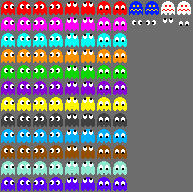
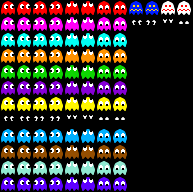
almost

diff --git a/Pac-Man/Pac-Man/Board.cpp b/Pac-Man/Pac-Man/Board.cpp
@@ -19,12 +19,30 @@ Board::Board(){
 	StartGame = new TexRect("StartGame.png", -0.65f, 0.4f, 1.2f, 0.4f);
 	Exit = new TexRect("Exit1.png", -0.6f, -0.5f, 1.1f, 0.35f);
 
+
 	Field = new Navigation();
 	Field->Initialize();
 	PacMan = new Player(Field->StartNode);
 	PacMan->Image->setPos(' ');
 	PacMan->Image->animate();
 	Initialize();
+
+	Uno = new Enemy(Field->List[66]);
+		Uno->Image->animate();
+		Uno->setRow(1);
+		Uno->Image->setPos('L');
+		Uno->Image->pause();
+
+	Dos = new Enemy(Field->List[67]);
+		Dos->Image->animate();
+		Dos->setRow(2);
+		Dos->Image->setPos('R');
+		Dos->Image->pause();
+	Tres = new Enemy(Field->List[68]);
+		Tres->Image->animate();
+		Tres->setRow(3);
+		Tres->Image->setPos('L');
+		Tres->Image->pause();
 
 	SelectionScreen = true;
 	isMoving = false;
@@ -104,11 +122,13 @@ void Board::Initialize(){
 	myfile2.close();
 
 }
-
 void Board::Handle(float x, float y){
 	if (Loss) {
-		if (PlayAgain->contains(x, y))
+		if (PlayAgain->contains(x, y)) {
 			ResetGame();
+			SelectionScreen = true;
+			Loss = false;
+		}
 	}
 	else if (SelectionScreen) {
 		if (StartGame->contains(x, y))
@@ -132,7 +152,9 @@ void Board::keyPressHandle(unsigned char key) {
 		Stash.clear();
 		delete Field;
 
-		//delete *Uno, *Dos, *Tres;
+		delete Uno;
+		delete Dos;
+		delete Tres;
 		delete PacMan;
 		exit(0);
 	}
@@ -169,6 +191,10 @@ void Board::GScreen(){
 	PacMan->draw();
 	ScoreSign->draw();
 	LiveSign->draw();
+
+	Uno->draw();
+	Dos->draw();
+	Tres->draw();
 	
 	for (vector<Object*>::iterator it = Stash.begin(); it != Stash.end(); ++it)
 		if((*it)->isVisible)
@@ -359,7 +385,7 @@ void Board::Points(){
 			}
 		}
 	}
-	if (Score >= 2500) {
+	if (Score >= 250) {
 		cout << "Won" << endl;
 		Won = true;
 	}

diff --git a/Pac-Man/Pac-Man/Enemy.cpp b/Pac-Man/Pac-Man/Enemy.cpp
@@ -2,14 +2,54 @@
 #include "Enemy.h"
 
 Enemy::Enemy(Node *a) {
-	X = a->CX; Y = a->CY;
-	curr = a;
-	Dir = 'U';
+	prev = a;
+	next = nullptr;
+	Dir = 'L';
 	isVisible = true;
+	X = a->CX; Y = a->CY;
 
-	Image = new AnimatedRect("Enemies.png", 1, 1, X, Y, 0.1f, 0.1f);
+	Image = new AnimatedRect("Enemies.bmp", 12, 12, X, Y, 0.1f, 0.1f);
+	Image->decX(Image->getw() / 2);
+	Image->incY(Image->geth() / 2);
+
+
+	//DIR = &Idle;
 }
 
+
 Enemy::~Enemy() {
-	delete Image;
+	//delete Image;
+	delete next;
+	delete prev;
+}
+
+bool Enemy::getChoice(char D) {
+	if (next->NodeDirection(prev) == D) {
+		return true;
+	}
+	return false;
+}
+
+// Finds if the next Choice is a valid one
+bool Enemy::NextChoice(char D) {
+	for (vector<Node*>::iterator it = next->Adj.begin(); it != next->Adj.end(); ++it) {
+		if (next->NodeDirection(*it) == D) {
+			return true;
+		}
+	}
+	return false;
+}
+
+// Sets the Initial Choice when the game starts
+bool Enemy::setChoice(char D) {
+	for (vector<Node*>::iterator it = prev->Adj.begin(); it != prev->Adj.end(); ++it) {
+		if (prev->NodeDirection(*it) == D) {
+			return true;
+		}
+	}
+	return false;
+}
+
+void Enemy::setRow(int a){
+	Image->setRow(a);
 }

diff --git a/Pac-Man/Pac-Man/App.cpp b/Pac-Man/Pac-Man/App.cpp
@@ -1,5 +1,6 @@
 #include "App.h"
 #include "stdafx.h"
+#include "Enemy.h"
 
 static App* MF;
 
@@ -17,7 +18,7 @@ void app_timer(int value) {
 
 		}
 		if (MF->MainFrame->Winning()) {
-			MF->MainFrame->ResetGame();
+			MF->MainFrame->Loss = true;
 		}
 		MF->MainFrame->Points();  //PacMan collision with dots gets points
 	}

diff --git a/Pac-Man/Pac-Man/Board.h b/Pac-Man/Pac-Man/Board.h
@@ -11,6 +11,7 @@
 #include "Navigation.h"
 #include "App.h"
 #include "SDots.h"
+#include "Enemy.h"
 
 #include <vector>
 #include <ctime>
@@ -34,7 +35,7 @@ class Board {
 	vector<Object*> Stash;
 	Navigation * Field;
 
-	//Enemy *Uno, *Dos, *Tres;
+	Enemy *Uno, *Dos, *Tres;
 	Player * PacMan;
 
 	int Score, Lives;

diff --git a/Pac-Man/Pac-Man/Enemy.h b/Pac-Man/Pac-Man/Enemy.h
@@ -6,13 +6,19 @@
 #include "AnimatedRect.h"
 
 class Enemy: public Navigation, public Object {
-	Node * curr;
+	Node * next;
 	Node * prev;
 
 	char Dir;
 public:
 	Enemy(Node *);
 	~Enemy();
+
+	bool getChoice(char);
+	bool NextChoice(char);
+	bool setChoice(char);
+
+	void setRow(int);
 };
 
 #endif // !ENEMY_H

diff --git a/Pac-Man/Pac-Man/AnimatedRect.h b/Pac-Man/Pac-Man/AnimatedRect.h
@@ -63,6 +63,8 @@ public:
 	float gety()const;
 	float getw()const;
 	float geth()const;
+
+	void setRow(int);
 };
 
 #endif

diff --git a/Pac-Man/Pac-Man/AnimatedRect.cpp b/Pac-Man/Pac-Man/AnimatedRect.cpp
@@ -161,3 +161,7 @@ void AnimatedRect::advance() {
 		}
 	}
 }
+
+void AnimatedRect::setRow(int a) {
+	curr_col = a;
+}
